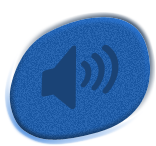
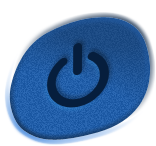
Modification bouton player

Changed region(s): [[0.2308, 0.1096, 0.9744, 0.7671]]

diff --git a/app/assets/stylesheets/gulli/layout.css.sass b/app/assets/stylesheets/gulli/layout.css.sass
@@ -100,12 +100,14 @@ html, body
   .btn-power
     width: 78px
     height: 73px
-    @include transition(background 100ms ease-out)
+    @include transition(background 200ms ease-out)
     @include background-cover("/assets/gulli/volume-off-md.png")
+    @include transform(scale(0.8))
     &.active
+      @include transform(scale(1))
       @include background-cover("/assets/gulli/volume-on-md.png")
-    &:hover
-      @include transform(scale(1.1))
+      &:hover
+        @include background-cover("/assets/gulli/volume-hover-md.png")
   .btn-share
     width: 115px
     height: 110px
@@ -132,6 +134,7 @@ html, body
     font-size: 20px
     .marquee
       height: 28px
+
 @media (max-width: $screen-sm-max)
   .outer
     @include background-cover("/assets/gulli/background-1.jpg")
